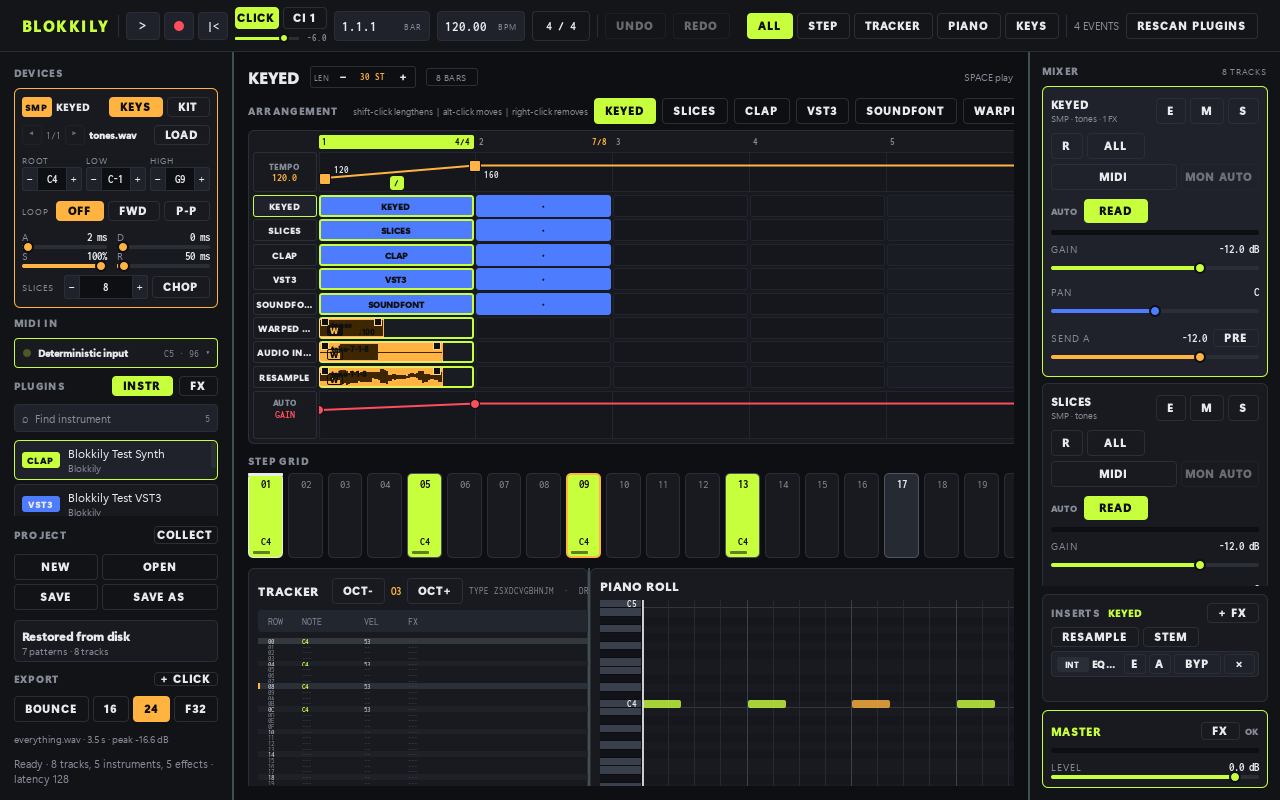
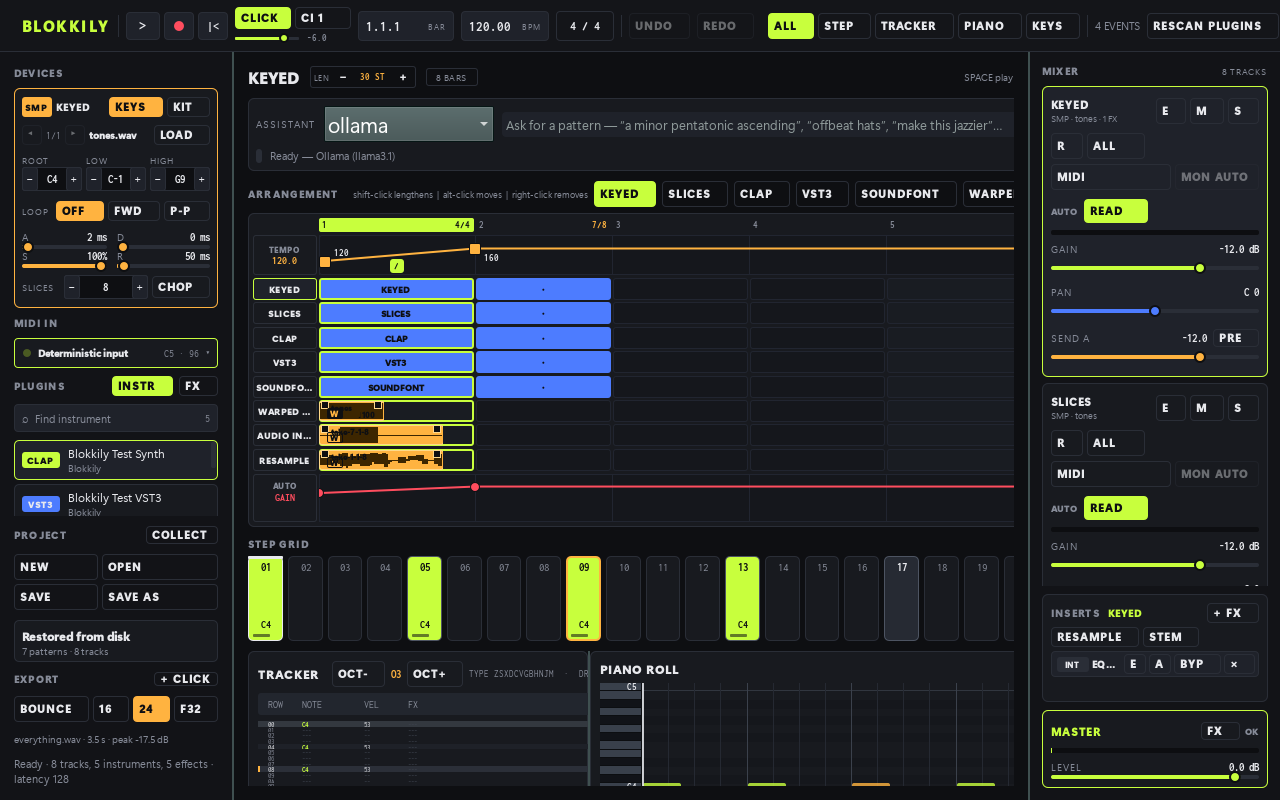
update readme

diff --git a/README.md b/README.md
@@ -7,6 +7,13 @@ not a compatibility add-on.
 
 ![Blokkily workstation showing an arrangement, synchronized editors, plugin browser, mixer, and keyboard](docs/images/blokkily-session.png)
 
+The workstation screenshot is the rendered `bdd_session_everything` session: a
+song with a tempo ramp, a 7/8 bar, keyed and sliced samplers, CLAP, VST3 and
+SoundFont instruments, a warped audio clip, built-in and CLAP/VST3 effects, a
+return/send bus, gain and effect automation, a count-in, and two armed tracks
+that took MIDI from a deterministic input. Above the editors is the prompt bar
+of the LLM composition assistant (described below).
+
 The framework-independent musical model and the real-time plugin boundary sit
 underneath all of it. The model covers notes, semantic chords, inversions,
 strum, microtiming, probability, ratchets, loop conditions, and parameter locks.
@@ -77,6 +84,17 @@ a note already on that step as a chord. What is written is what the engine
 heard, at the position it heard it, and one take is one step of undo. A bounce
 neither hears nor records the keyboard.
 
+A prompt bar above the editors asks an LLM composition assistant to write into
+the open pattern: a line like "a minor pentatonic ascending" or "offbeat hats"
+is sent to a chosen backend (a local Ollama model by default, a Gemini or
+MiniMax endpoint when keyed), the reply is parsed and clamped like any other
+input, and the result sits as a proposal on the bar until the producer clicks
+Apply — nothing reaches the song before then, and one generation is one undo
+step. The assistant is on the GUI thread only; the audio thread never sees an
+LLM call. See `docs/llm-assistant.md` for the wire dialect, backends, and the
+`bdd_llm_assistant` gate that drives the rendered bar end to end without a
+network.
+
 ## Build
 
 Needs Qt 6.5+, FluidSynth, RtAudio, RtMidi, libsndfile, libsamplerate and
@@ -140,9 +158,11 @@ Shift+Backspace pulls them up, Alt+arrows nudge micro-timing and note length,
 Ctrl+D duplicates the selected step onto
 the next row, Ctrl+1..0 (and Ctrl+Shift+1..6 for the second half of the bar)
 toggles a step, Ctrl+M mutes and Ctrl+L solos the selected track, Ctrl+R arms
-recording, and Ctrl+E bounces the arrangement to disk. The MIDI IN panel on the
-left chooses the keyboard, and its light flashes on every key that arrives. Those keys stand aside while a text field has
-the keyboard, so typing a search or a name never moves the song.
+recording, Ctrl+E bounces the arrangement to disk, and Ctrl+K focuses the
+assistant prompt bar (Escape hands the keys back to the editors). The MIDI IN
+panel on the left chooses the keyboard, and its light flashes on every key that
+arrives. Those keys stand aside while a text field has the keyboard, so typing
+a search or a name never moves the song.
 
 Every edit can be taken back: Ctrl+Z undoes and Ctrl+Shift+Z (or Ctrl+Y) redoes
 steps, strokes, clips, tracks, patterns, fader moves and the tuning, and a drag —
@@ -266,7 +286,11 @@ to persist those references. Original files are kept so undo remains playable.
 
 - MIDI input handles notes; pitch bend, sustain, other controllers and MIDI
   clock are not recorded. Notes are timestamped to the callback block.
-- Audio is fully decoded into RAM; there is no disk streaming or comping.
+- Long audio files stream from disk through lock-free ring buffers on a
+  background worker rather than consuming RAM; an underrun softly fades to
+  silence rather than clicking. RAM decoding remains the path for short
+  files and sampler playback. Comping (taking alternate passes of a recorded
+  lane) is not here yet.
 - The sampler panel loads one file at a time; it has no multi-sample import
   wizard, velocity-layer editor or waveform editing surface.
 - Step parameter locks target the track instrument. Insert parameters use

diff --git a/docs/verification.md b/docs/verification.md
@@ -375,6 +375,20 @@ session, reopens and compares the read-back float export sample for sample
 with an independent drive of the same engine. Muting every track in turn must
 change rendered audio. The artifact is `build/artifacts/session-everything.png`.
 
+`bdd_llm_assistant` drives the rendered prompt bar end to end with a scripted
+backend (the JSONL prompt-reply fixture at `tests/fixtures/llm_script.jsonl`),
+no network involved. The bar starts idle, a typed prompt reaches a proposal
+with the field locked and Apply/Discard visible, Apply writes the triggers into
+the canonical pattern (one undo step), Discard leaves the pattern untouched,
+the keyboard's Ctrl+K focus and Escape handoff are exercised, and undo/redo
+move the whole generation as one. Three screenshots are saved:
+`build/artifacts/llm-assistant-idle.png`, `build/artifacts/llm-assistant-proposal.png`,
+and `build/artifacts/llm-assistant.png` (end of scenario). The wire format,
+prose rejection, clamping, out-of-pattern triggers and round trip are proved
+from canned replies by `blokkily_llm_tests` (`ctest -L llm`); the backends'
+HTTP plumbing is proved by captured `QNetworkAccessManager` requests so the
+gate never depends on a server.
+
 `output_recording_state` reproduces a parameter-lock export changing the next
 export. `output_recording_soundfont_reset` covers repeated SoundFont rendering.
 Both regression tests were run failing before their fixes.
